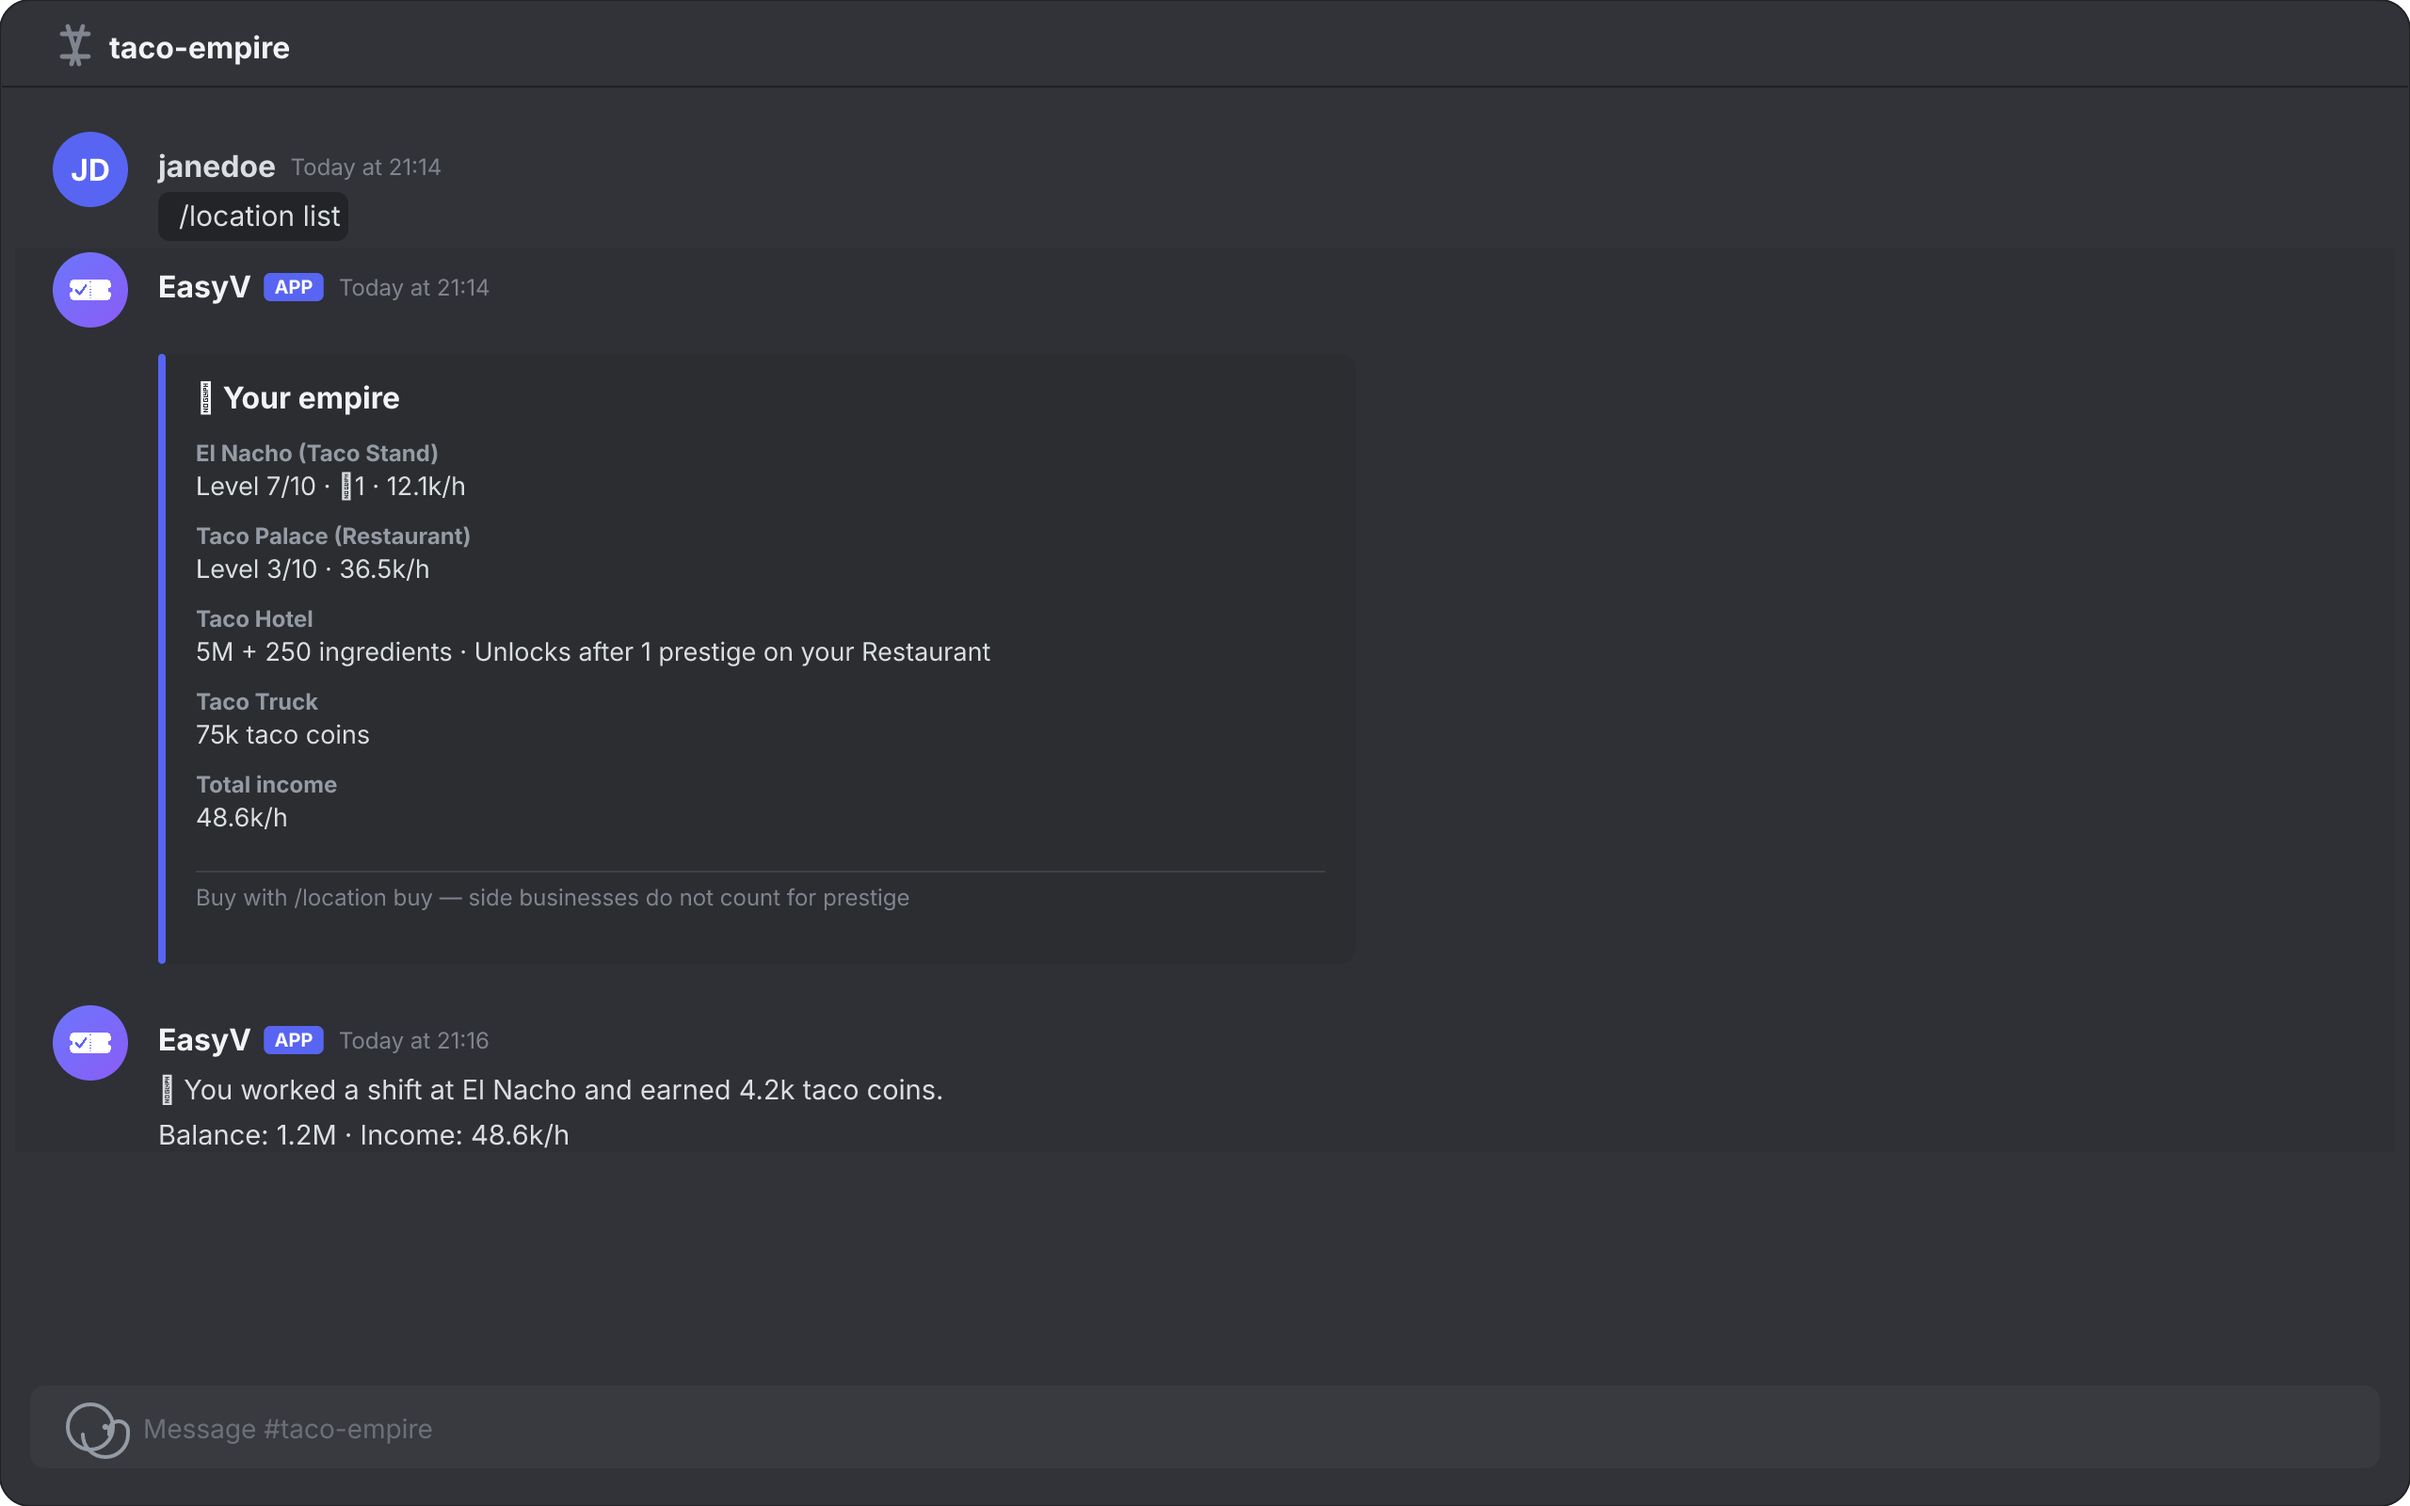
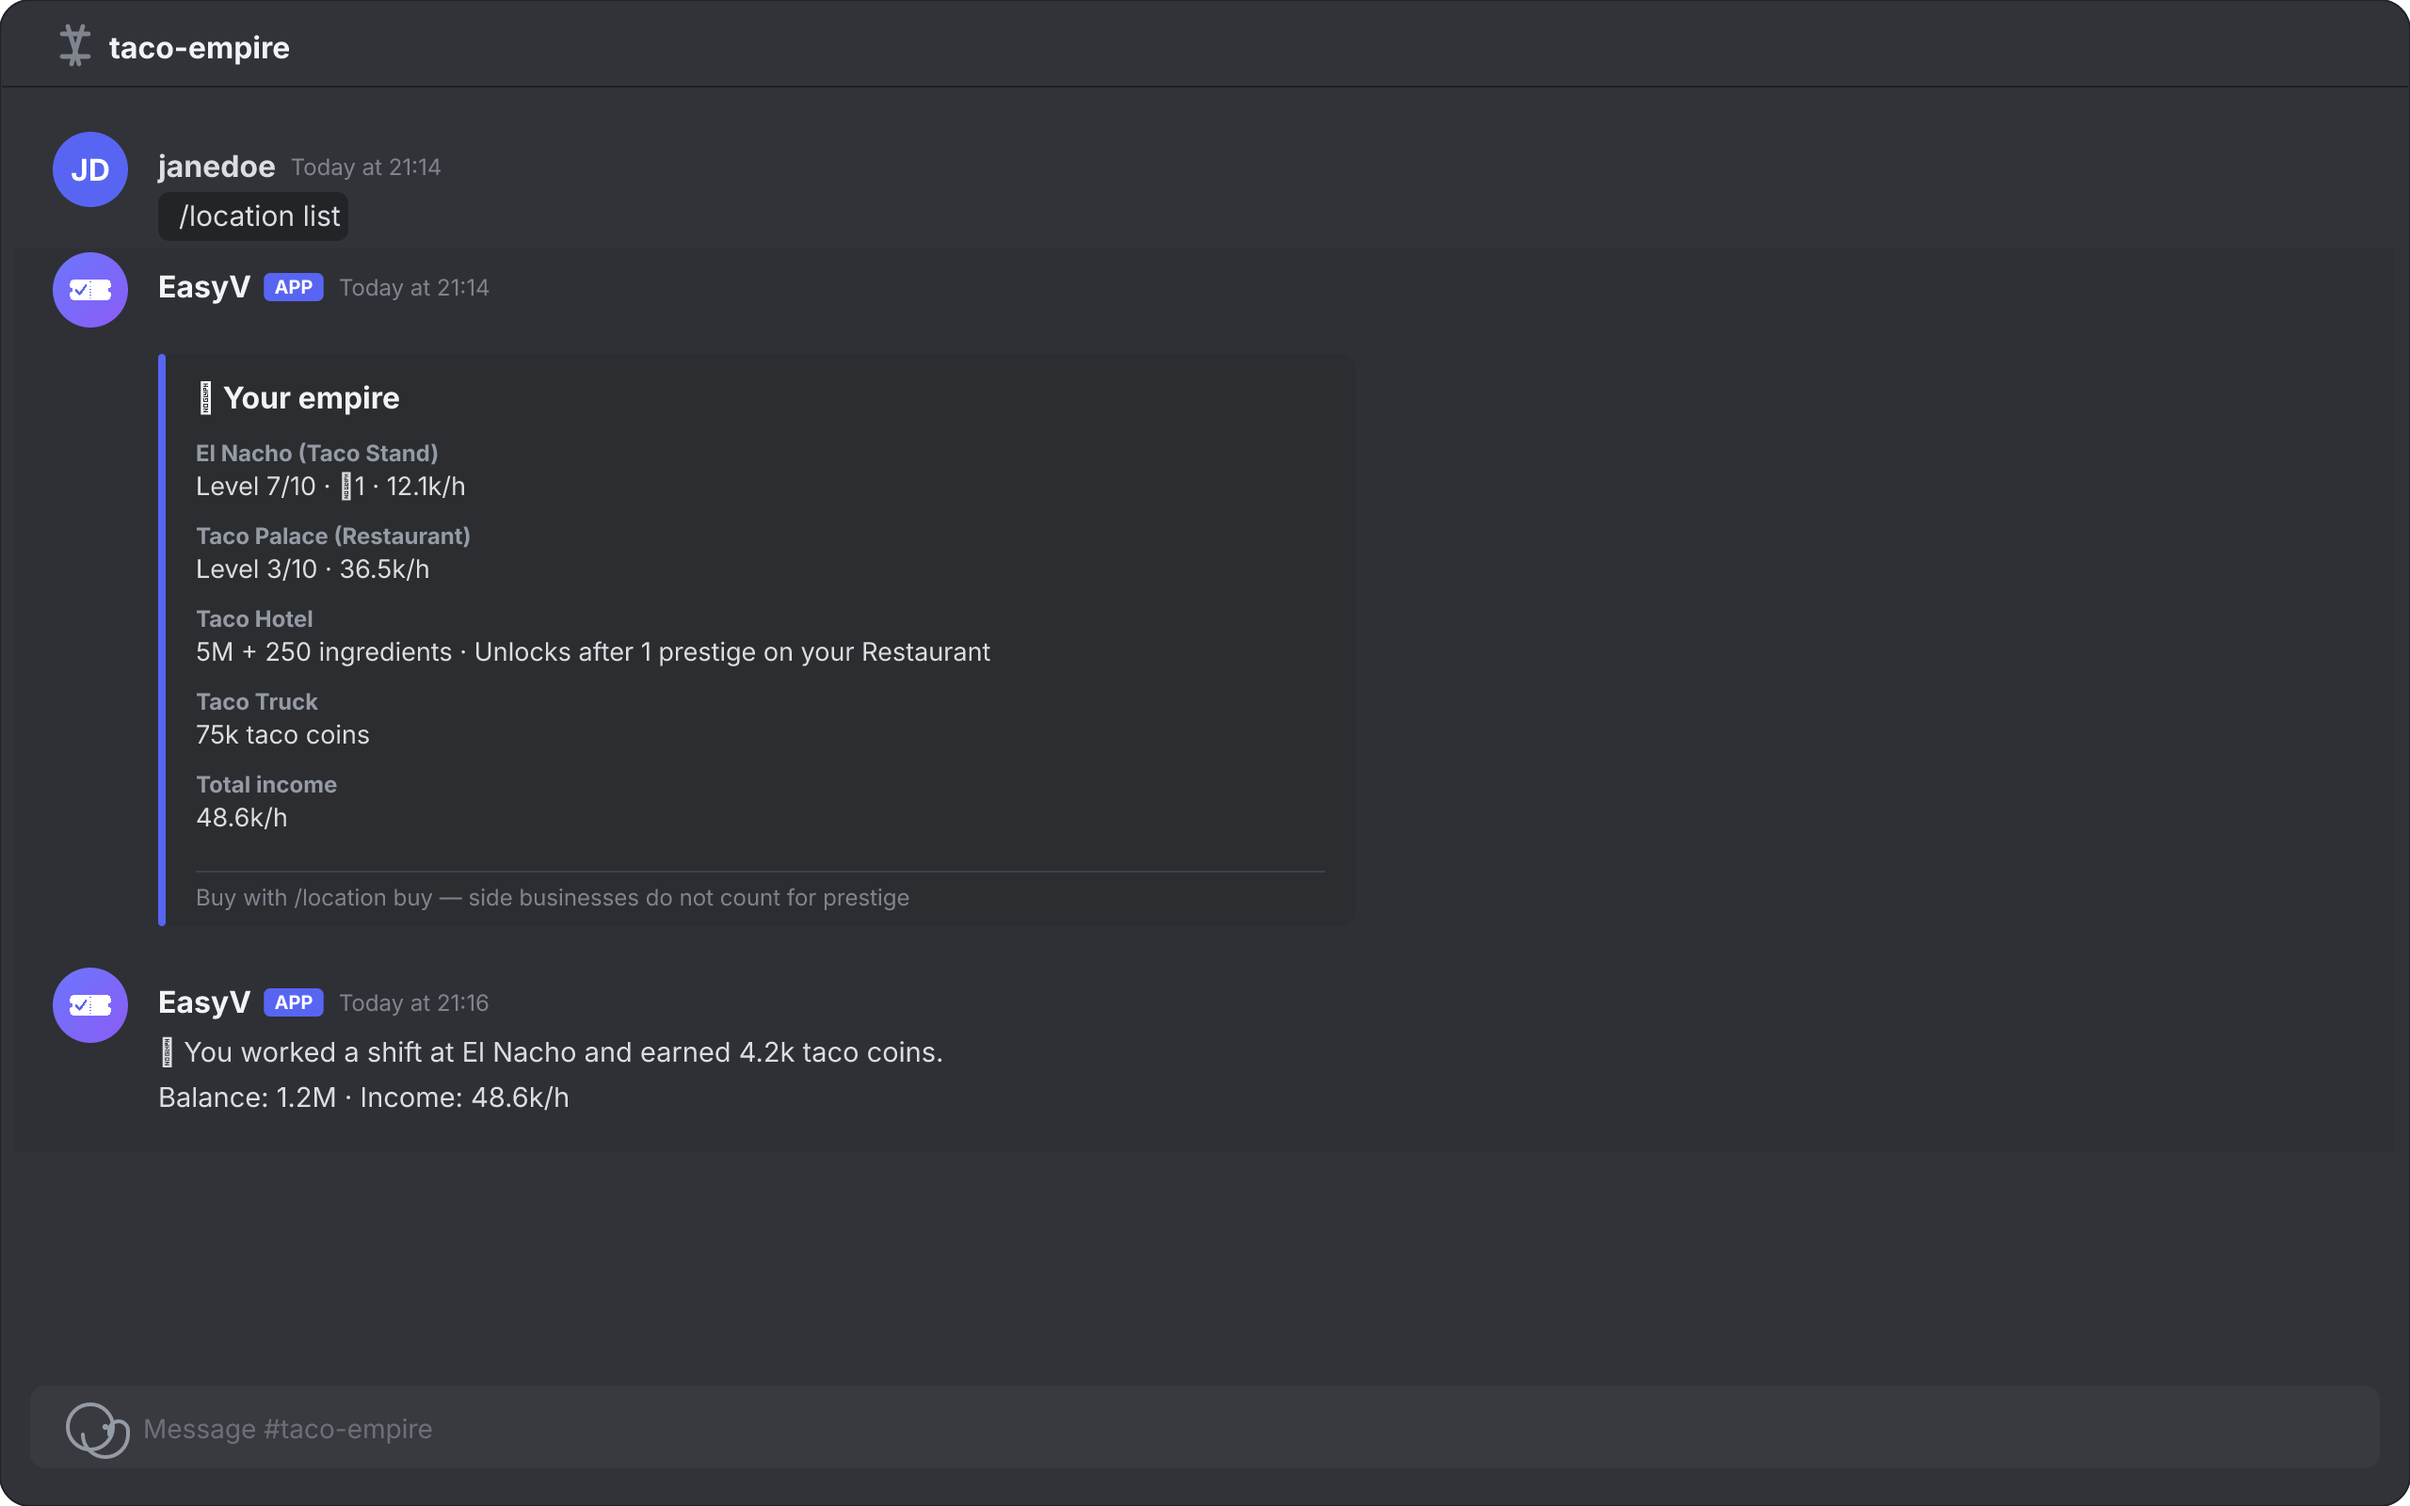
Docs: /shop and /shack Discord screenshots + uniform command mockups
Regenerates the Taco Empire README screenshots with the bot's resvg pipeline: dedicated /shop (Boost Shop embed + purchase confirmation) and /shack (empire stats) images, the /upgrades ladder under its own filename, and /location list. All four verified pixel-level for text and layout.

Changed region(s): [[0.0, 0.625, 0.375, 0.7812]]

diff --git a/README.md b/README.md
@@ -59,9 +59,13 @@ gambling — just numbers going up.
 
 <img src="assets/economy-shack.png" alt="Discord message showing the /shack stats embed with balance, income and per-business fields" width="100%">
 
+**`/shop` — the boost store, and buying a boost:**
+
+<img src="assets/economy-shop.png" alt="Discord message showing the /shop embed with the Lucky Sombrero and Golden Ticket boosts" width="100%">
+
 **`/upgrades` — the reinvestment ladder, and `/tips` payouts:**
 
-<img src="assets/economy-shop.png" alt="Discord message showing the /upgrades embed with the equipment ladder" width="100%">
+<img src="assets/economy-upgrades.png" alt="Discord message showing the /upgrades embed with the equipment ladder" width="100%">
 
 **`/location list` — the three business lines, and a `/work` shift:**
 
